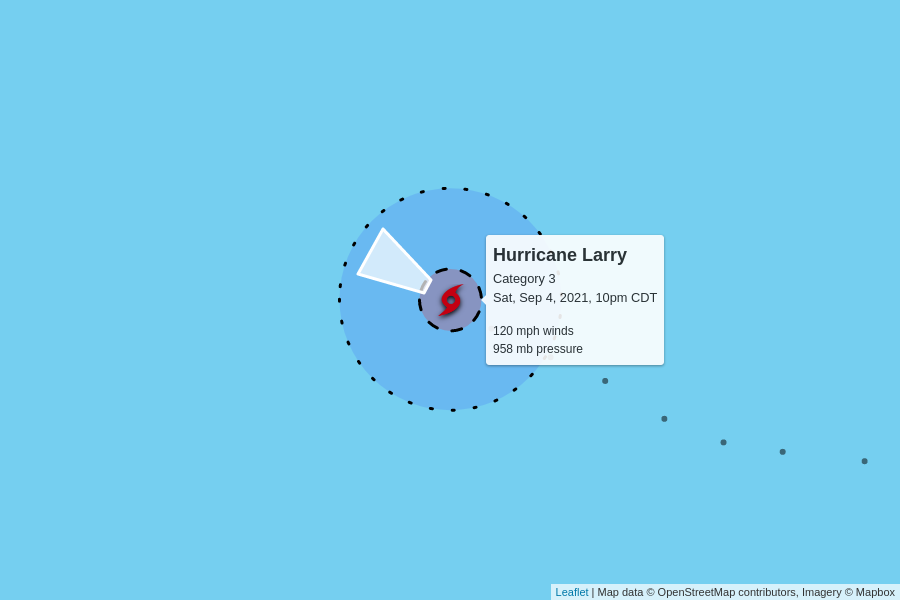
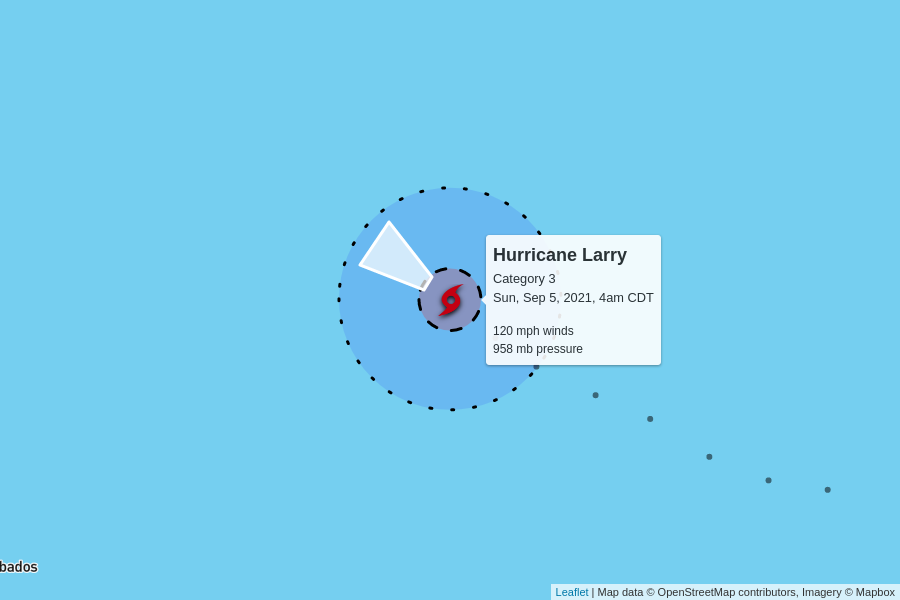
automatic update

diff --git a/docs/index.html b/docs/index.html
@@ -100,7 +100,7 @@
         <td colspan="6" class="storm category-3">
           <h2>
             Hurricane Larry - Category 3
-            <p class="updated">last updated <span data-time>2021-09-05T03:00:00.000Z</span></p>
+            <p class="updated">last updated <span data-time>2021-09-05T09:00:00.000Z</span></p>
           </h2>
         </td>
       </tr>
@@ -118,9 +118,9 @@
         <td>120 mph</td>
         <td>958 mb</td>
         <td>
-          14 mph to the west-northwest
+          14 mph to the northwest
           <br/>
-          <span style="display: inline-block; font-size: 1.5em; transform: rotate(300deg);">↑</span>
+          <span style="display: inline-block; font-size: 1.5em; transform: rotate(305deg);">↑</span>
         </td>
         <td><a href="https://raw.githubusercontent.com/mgwalker/atlantic-hurricanes/main/data/csv/AL122021.csv">AL122021.csv</a></td>
         <td><a href="https://www.nhc.noaa.gov/archive/2021/LARRY.shtml?">NHC advisories</a></td>
